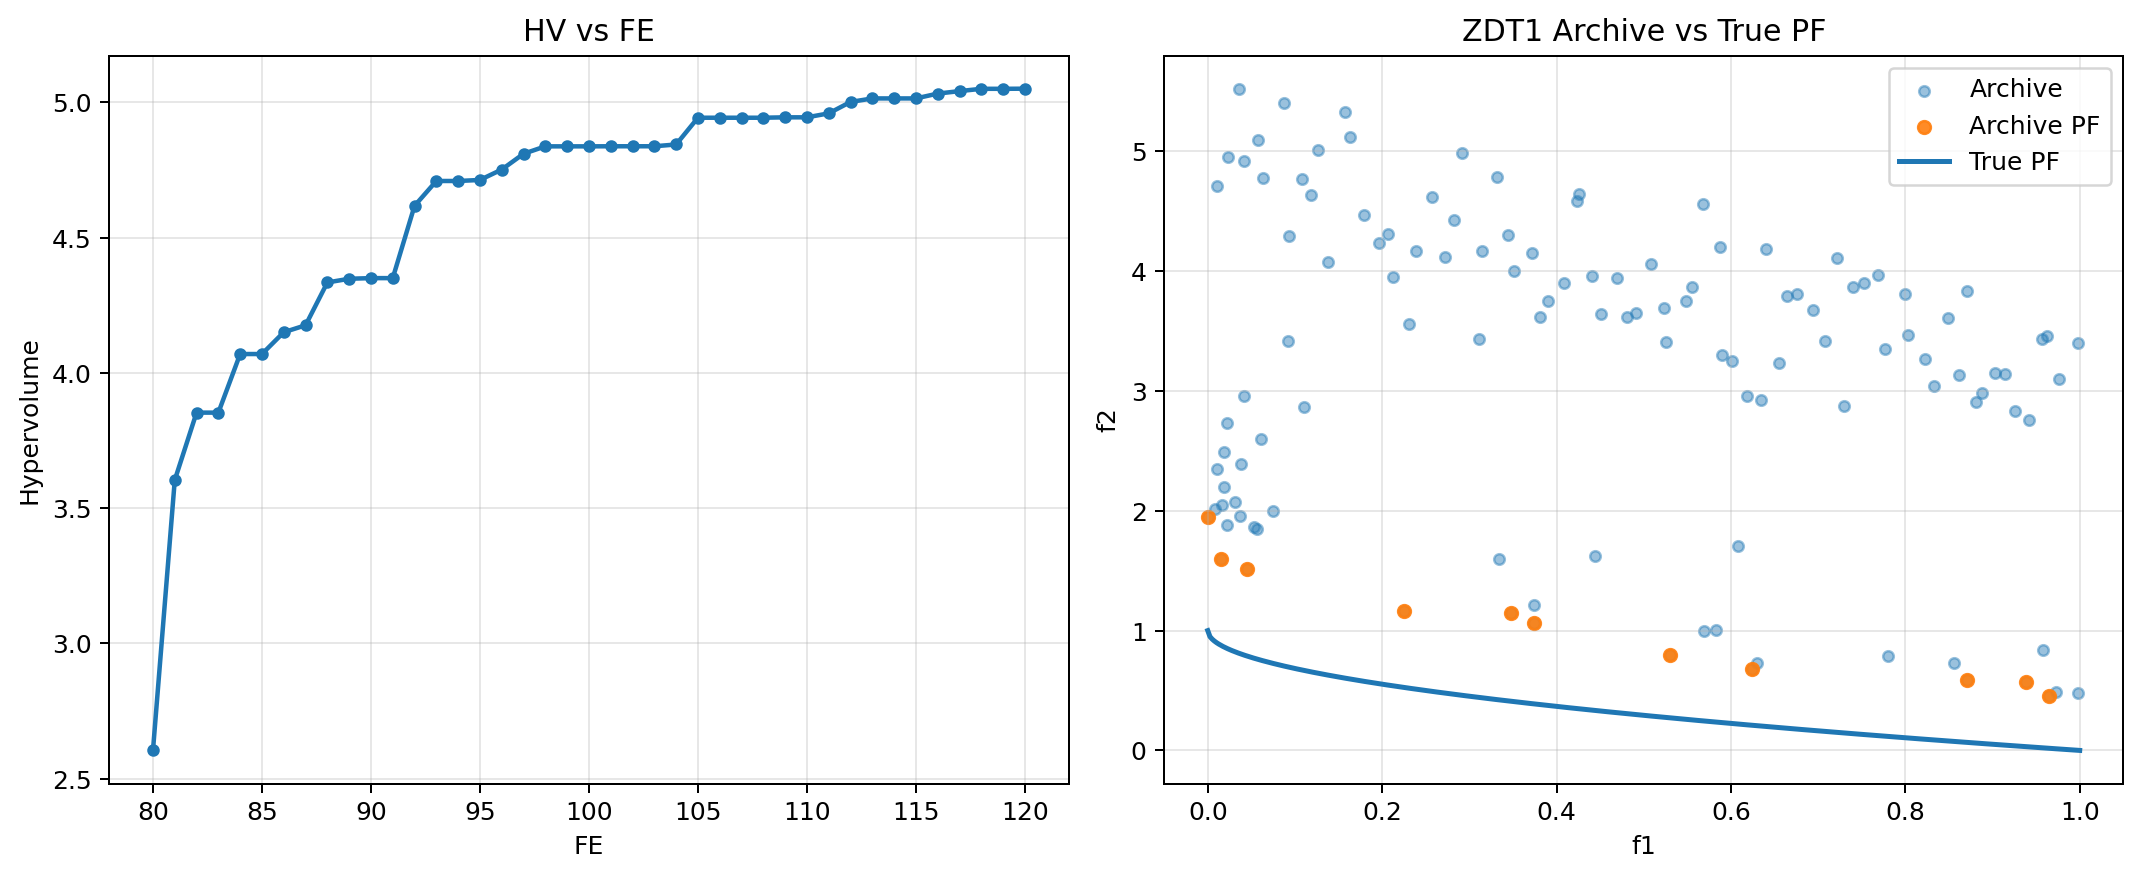
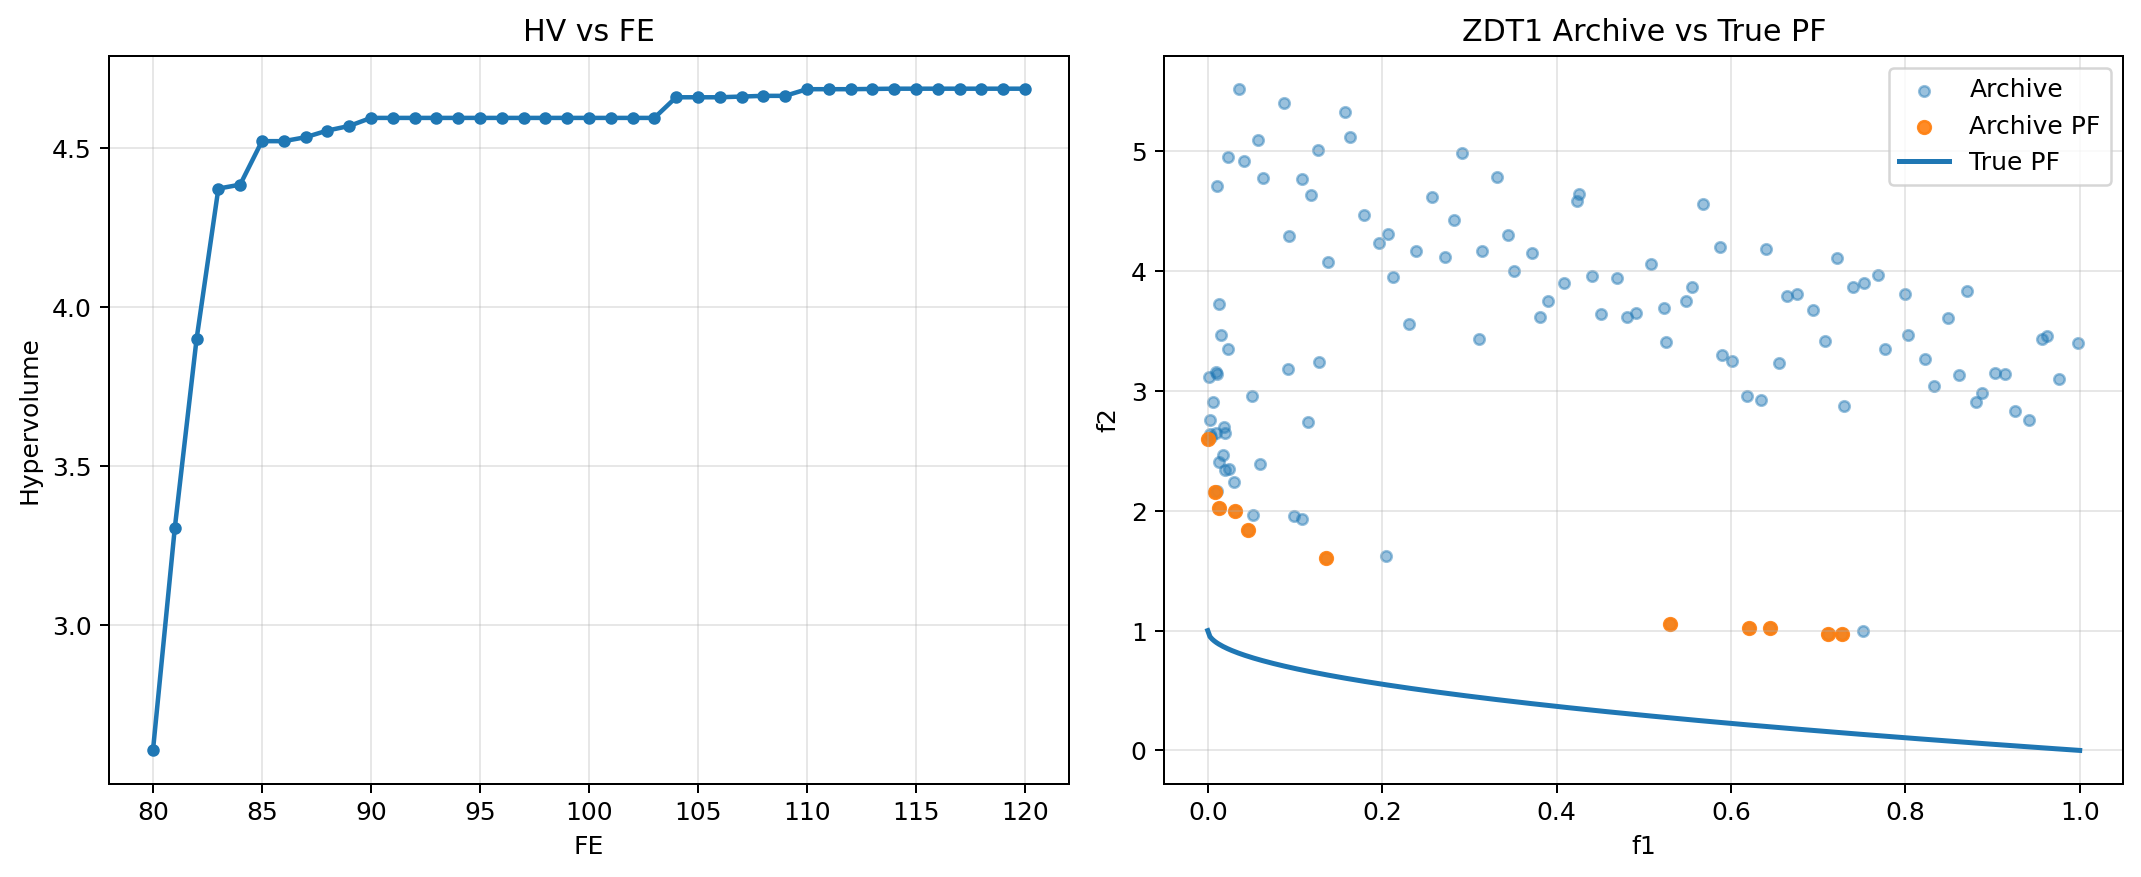
fix kan steps in trainer

diff --git a/trainer.py b/trainer.py
@@ -57,8 +57,8 @@ class TrainConfig:
     surrogate_model: str = "kan"
     surrogate_nsga_steps: int = 100
     offspring_size: int = 80
-    kan_steps: int = 100
-    kan_hidden_width: int = 64
+    kan_steps: int = 25
+    kan_hidden_width: int = 10
     kan_grid: int = 5
     reward_scheme: int = 1
     policy_mode: str = "epsilon_greedy"
